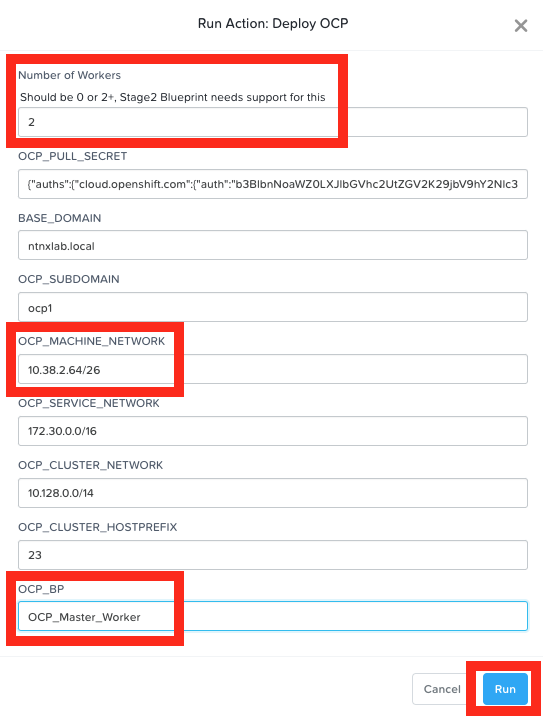
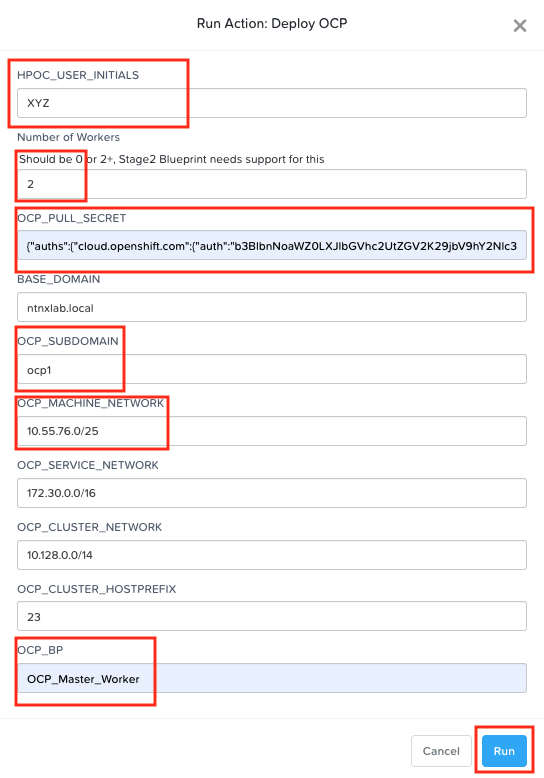
Thu Jan  6 16:31:36 JST 2022

diff --git a/ocp_vms_2/ocp_vms_2.rst b/ocp_vms_2/ocp_vms_2.rst
@@ -1,0 +1,55 @@
+.. _ocp_vms_2:
+
+-----------------------------------
+OCP: Create Additional OCP Clusters
+-----------------------------------
+
+There will instances where you will want to deploy a second OCP cluster in the same/different environment using these blueprints.
+
+We are able to achieve this by executing the **Deploy OCP** action once again from the Provisioning VM
+
+
+#. In **Prism Central** > **Services** > **Calm**
+ 
+#. Click on **Applications**
+
+#. Select your Provisioning VM ``*Initials*_PROV_VM`` application
+ 
+   .. figure:: images/prov_vm_app.png
+   
+#. Click on **Manage** tab 
+
+#. Click on the play :fa:`play` button next to **Deploy OCP** action
+
+   .. figure:: images/ocp_deployocp_action.png
+
+#. Fill only the following details:
+
+   - **HPOC_USER_INITIALS** - XYZ
+   - **Number of Workers** - 2
+   - **OCP_PULL_SECRET** - download/copy this from your Red Hat Portal `Login <https://console.redhat.com/openshift/install/pull-secret>`_ (you will need Red Hat Portal Access)
+   - **OCP Subdomain** - ocp2 (this must be unique from your previous OCP cluster)
+   - **OCP_MACHINE_NETWORK** - provide your Primary network address for your HPOC/SPOC (e.g. 10.38.2.64/26 ) - check in your cluster reservation email/webpage
+   - **OCP_BP** - OCP_Master_Worker (modify this if you have used a different blueprint name)
+
+#. Click on **Run**
+
+   .. figure:: images/ocp_deploy_task_runtime_variables_2.png
+
+#. Go to the **Audit** tab to check the stautus of the launched **Deploy OCP** action
+
+   .. figure:: images/ocp_deploy_audit.png
+
+#. If this action launch is succesful, you will see another application **Openshift ocp2** in the **Calm** > **Applications** in a **Provisioning** state
+ 
+   .. figure:: images/ocp_app_provisioning.png
+
+#. Click on the **Openshift ocp2** application and go to **Audit** tab
+
+#. Observe the vm create, package and other Calm actions 
+
+#. This should take about 20-25 minutes
+
+#. Once deployed the Calm application **Openshift ocp2** will be in a running state
+
+   .. figure:: images/ocp_prov_vm_audit.png

diff --git a/ocp_vms/ocp_vms.rst b/ocp_vms/ocp_vms.rst
@@ -118,16 +118,17 @@ Deploying OCP Cluster
 
 #. Click on the play :fa:`play` button next to **Deploy OCP** action
 
-   .. figure:: images/ocp_bp_save_validation.png
+   .. figure:: images/ocp_deployocp_action.png
 
 #. This will open up **Run Action: Deploy OCP** window for user inputs
 
 #. Fill only the following details:
-
+   
+   - **HPOC_USER_INITIALS** - XYZ
    - **Number of Workers** - 2
-   - **OCP_PULL_SECRET** - download/copy this from your Red Hat Portal `Login <https://console.redhat.com/openshift/install/pull-secret>`_ (you will need Red Hat Portal Access)
+   - **OCP_PULL_SECRET** - download/copy pull secret this from your Red Hat Portal `Login <https://console.redhat.com/openshift/install/pull-secret>`_ (you will need Red Hat Portal Access)
    - **OCP_MACHINE_NETWORK** - provide your Primary network address for your HPOC/SPOC (e.g. 10.38.2.64/26 ) - check in your cluster reservation email/webpage
-   - **OCP_BP** - OCP_Master_Worker (modify if you have used a different blueprint name)
+   - **OCP_BP** - OCP_Master_Worker (modify this if you have used a different blueprint name)
 
 #. Click on **Run**
 
@@ -145,7 +146,7 @@ Deploying OCP Cluster
 
 #. Observe the vm create, package and other Calm actions 
 
-#. This should take about 10-15 minutes
+#. This should take about 20-25 minutes
 
 #. Meanwhile you can notice that Prism Central's event will be getting quite busy. This is a result of VMs, storage, etc,. getting provisioned by Calm using REST calls to Prism Cental
 

diff --git a/ocp_image_registry/ocp_image_registry.rst b/ocp_image_registry/ocp_image_registry.rst
@@ -21,6 +21,18 @@ The PVC will be 100 GB.
 Creating the PVC
 ++++++++++++++++
 
+#. In Calm go to your **Applications** > **Openshift ocp1** application
+
+#. Go to the **Services** 
+
+#. Select your **LB_DNS** service
+
+#. Click on **Open Terminal**
+   
+   .. figure:: images/ocp_lbdns_terminal.png
+
+   The terminal will open in a new browser tab
+
 #. Copy the following StorageClass configuration script and paste it in the command line window
     
    .. code-block:: bash

diff --git a/ocp_scale_out_in/ocp_scale_out_in.rst b/ocp_scale_out_in/ocp_scale_out_in.rst
@@ -49,7 +49,7 @@ If you don't have a Windows Tools VM in your HPOC. Use these instructions here i
 
 .. note:: 
  
-  DNS lookup will not work from anywhere else except the Windows Tools VM
+  DNS lookup will not work from anywhere else except the Windows Tools VM. So please use this VM to do the rest of this lab.
 
 #. Login to you Windows Tools VM using the following credentials;
 

diff --git a/ocp_csi/ocp_csi.rst b/ocp_csi/ocp_csi.rst
@@ -85,7 +85,7 @@ Install StorageClass
 
 #. Go to the **Services** 
 
-#. Select your LB_DNS service
+#. Select your **LB_DNS** service
 
 #. Click on **Open Terminal**
    

diff --git a/index.rst b/index.rst
@@ -27,6 +27,8 @@
   :name: _optional_labs
   :hidden:
 
+  ocp_vms_2/ocp_vms_2
+
 .. toctree::
   :maxdepth: 2
   :caption: Appendix
